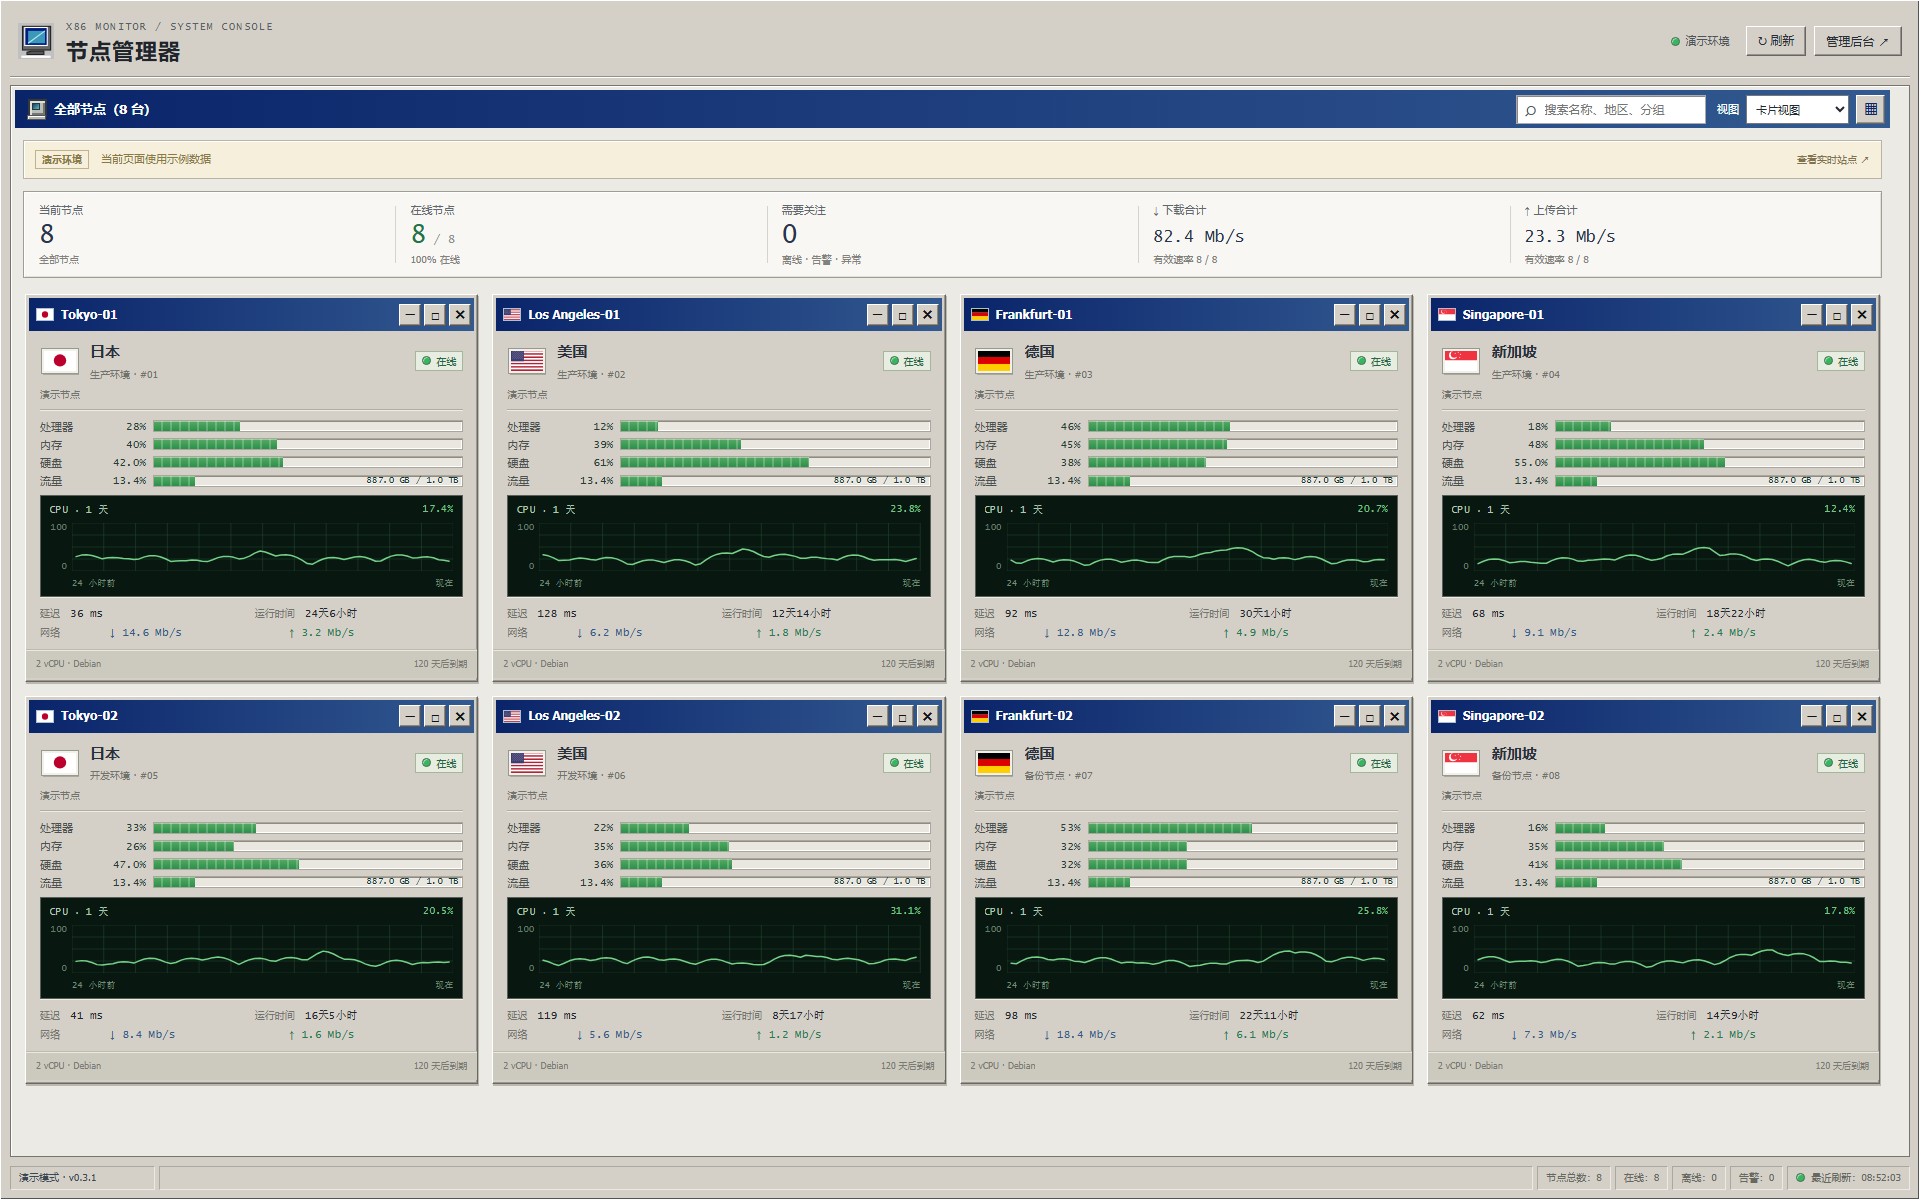
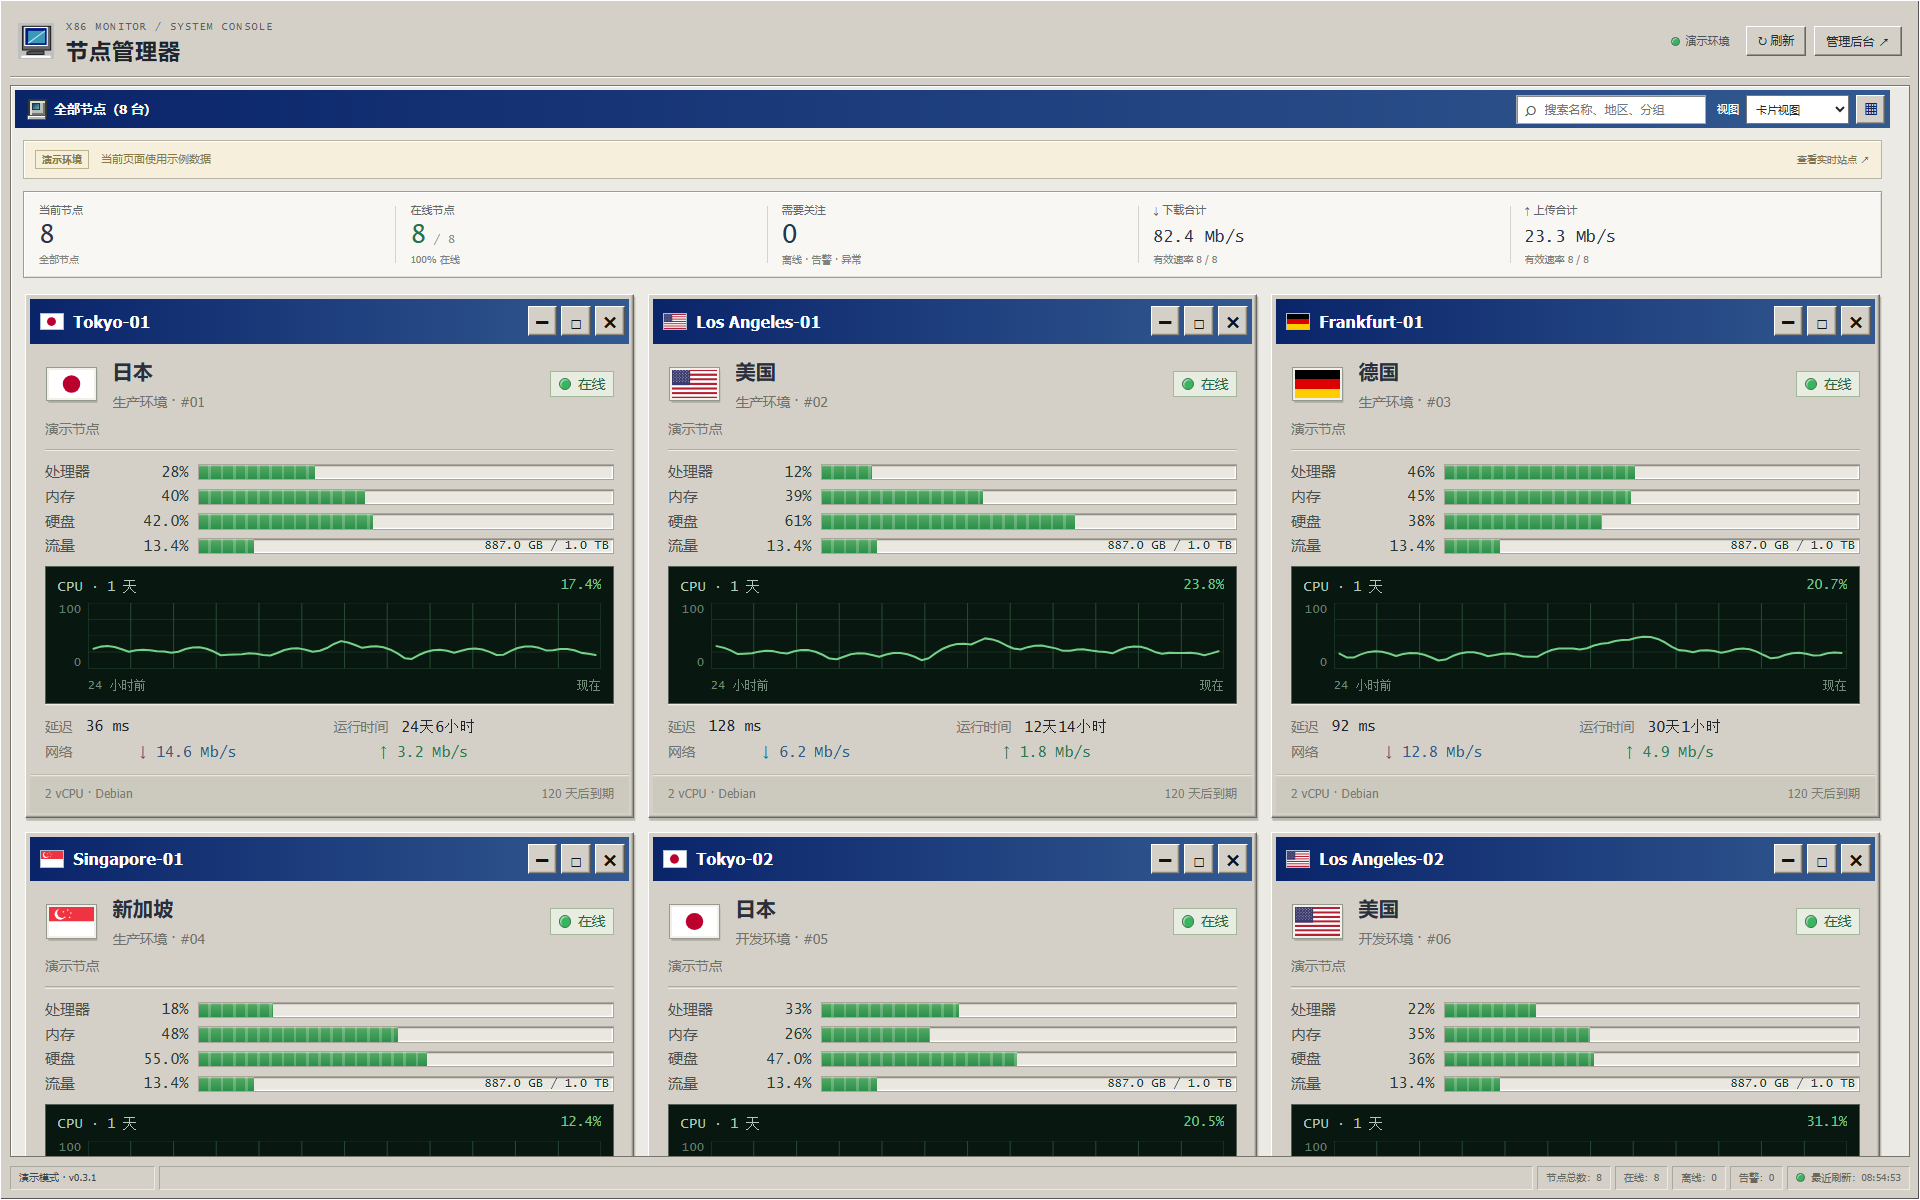
style: show three desktop cards with proportional scaling

diff --git a/src/main.ts b/src/main.ts
@@ -594,7 +594,7 @@ function renderMain() {
           : `<div class="skeleton-grid" aria-label="正在加载节点">${Array.from({ length: 6 }, () => '<div class="skeleton-card"><div></div><span></span><span></span><span></span></div>').join("")}</div>`
         : !result.length
           ? `<div class="empty-state">${buttonIcon("folder")}<p>${a.length ? "没有匹配的节点" : "暂无节点"}</p><small>可以尝试切换分组、清空搜索，或恢复隐藏的卡片。</small><button class="classic-button" data-action="reset">显示全部节点</button></div>`
-          : `<div class="node-grid ${view === "compact" ? "compact-grid" : ""}" style="--cols:${config.columns}">${result.map(nodeCard).join("")}</div>`
+          : `<div class="node-grid ${view === "compact" ? "compact-grid" : ""}" style="--cols:${config.columns}">${result.map((n) => `<div class="node-slot">${nodeCard(n)}</div>`).join("")}</div>`
     }
   </main>`;
 }

diff --git a/tests/ui/console.spec.ts b/tests/ui/console.spec.ts
@@ -1,4 +1,22 @@
 import { test, expect } from "@playwright/test";
+test("desktop displays three cards per row with the same proportions across widths", async ({
+  page,
+}) => {
+  const ratios: number[] = [];
+  for (const width of [960, 1280, 1920]) {
+    await page.setViewportSize({ width, height: 1000 });
+    await page.goto("/demo.html");
+    const cards = page.locator(".node-window");
+    await expect(cards).toHaveCount(8);
+    const boxes = await Promise.all(
+      [0, 1, 2, 3].map((i) => cards.nth(i).boundingBox()),
+    );
+    expect(Math.abs(boxes[0]!.y - boxes[2]!.y)).toBeLessThan(2);
+    expect(boxes[3]!.y).toBeGreaterThan(boxes[0]!.y + boxes[0]!.height);
+    ratios.push(boxes[0]!.width / boxes[0]!.height);
+  }
+  expect(Math.max(...ratios) - Math.min(...ratios)).toBeLessThan(0.02);
+});
 test("cards show quota remaining and total traffic and detail shows three carriers", async ({
   page,
 }) => {

diff --git a/src/styles.css b/src/styles.css
@@ -2065,7 +2065,7 @@ button:disabled {
   }
 }
 /* Room for eight readable windows on a standard desktop, with compact chrome. */
-@media (min-width: 1181px) {
+@media (min-width: 901px) {
   .overview-strip > div {
     padding: 11px 15px;
   }
@@ -2169,5 +2169,30 @@ button:disabled {
   }
   .probe-card p {
     margin-bottom: 0;
+  }
+}
+.node-slot {
+  min-width: 0;
+  container-type: inline-size;
+}
+@media (min-width: 701px) {
+  .node-slot > .node-window {
+    width: 450px;
+    max-width: none;
+    zoom: calc(100cqw / 450px);
+  }
+}
+@media (min-width: 901px) {
+  .node-grid {
+    grid-template-columns: repeat(var(--cols), minmax(0, 1fr));
+  }
+}
+
+@media (min-width: 901px) {
+  .node-slot .node-title {
+    min-height: 33px;
+  }
+  .node-slot .node-footer {
+    margin: 0 -11px;
   }
 }
